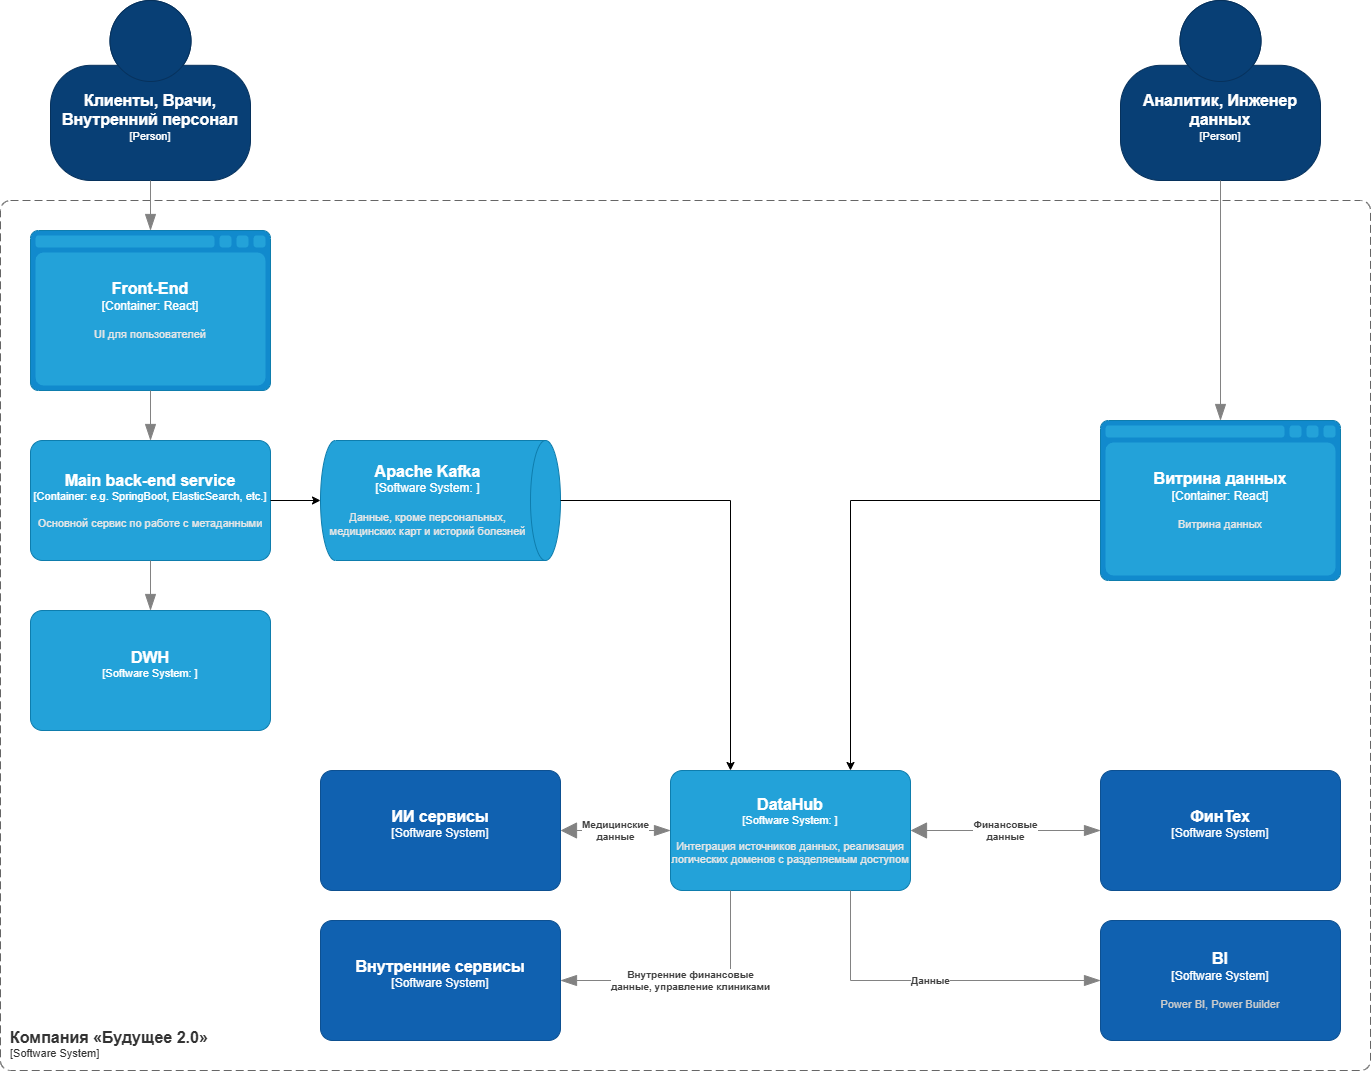
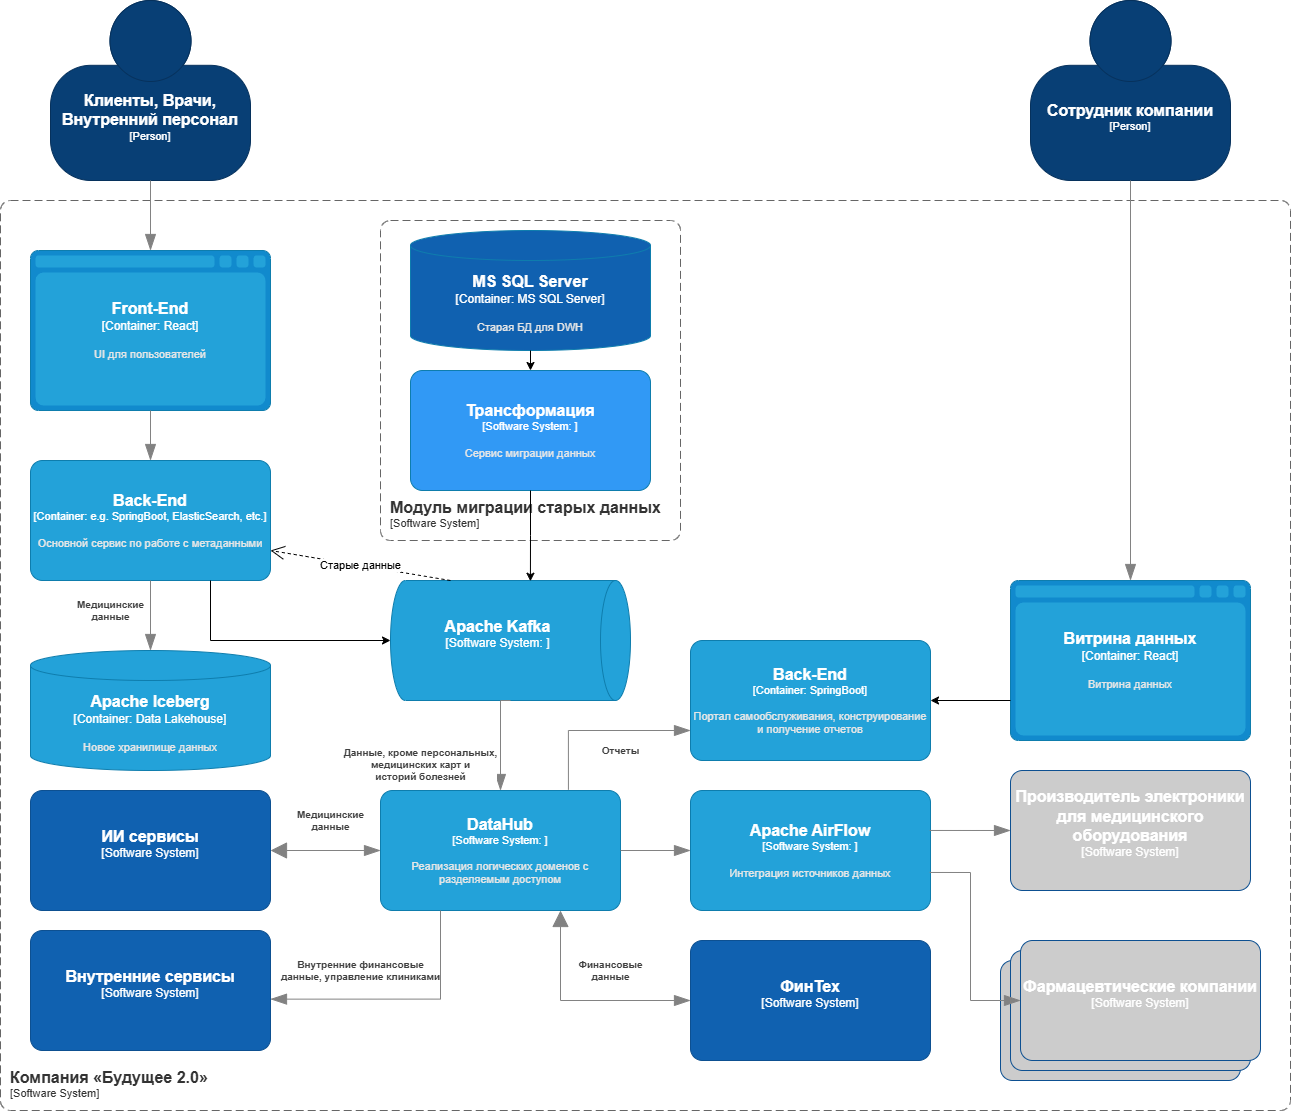
to new PR

diff --git a/Task1/readme.md b/Task1/readme.md
@@ -5,17 +5,15 @@
 ## Проблемные места
 
 1. Использование устаревших технологий
-
-  - Устаревшая DWH как единая точка отказа системы (MSSQL 2008 закончил цикл поддержки и обновления 5 лет назад)
-  - Устаревшая шина данных - Apache Camel
+   - Устаревшая DWH как единая точка отказа системы (MSSQL 2008 закончил цикл поддержки и обновления 5 лет назад)
+   - Устаревшая шина данных - Apache Camel
 
 2. Медленная работа системы
-   Много кастомизаций BI системы поверх DWH, отчеты строятся медленно.
+   - Много кастомизаций BI системы поверх DWH
+   - Отчеты строятся медленно
 
 
-## Приоритизация выявленных проблем
-
-### Методом MoSCoW
+## Приоритизация выявленных проблем методом MoSCoW
 
 #### Must-have (обязательно):
 
@@ -32,9 +30,9 @@
 
 #### Could-have (возможно):
 
-- Замена DWH
-- Замена Apache Camel
+- Замена DWH и cлоя интеграций через старую шину данных(Apache Camel) на DataHub + Apache AirFlow
 
 #### Would-like-to-have-but-won't-get-this-time (хотелось бы, но не в этот раз)
 
-- Бизнес разрешил при необходимости отказаться от легаси-систем и мигрировать на новые сервисы, если вы предоставите весомое обоснование.
+- Бизнес разрешил при необходимости отказаться от легаси-систем и мигрировать на новые сервисы, если будет предоставлено весомое обоснование
+
